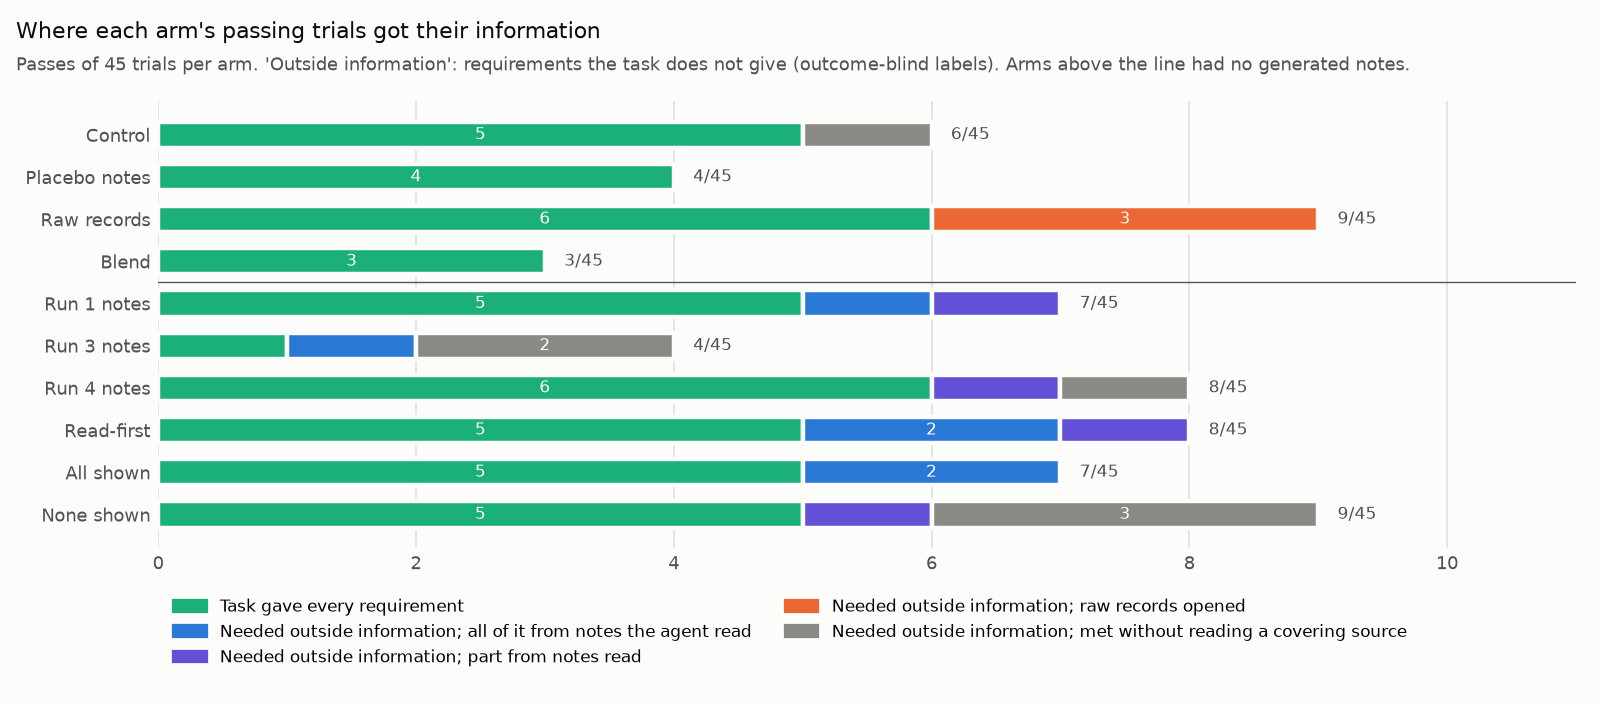
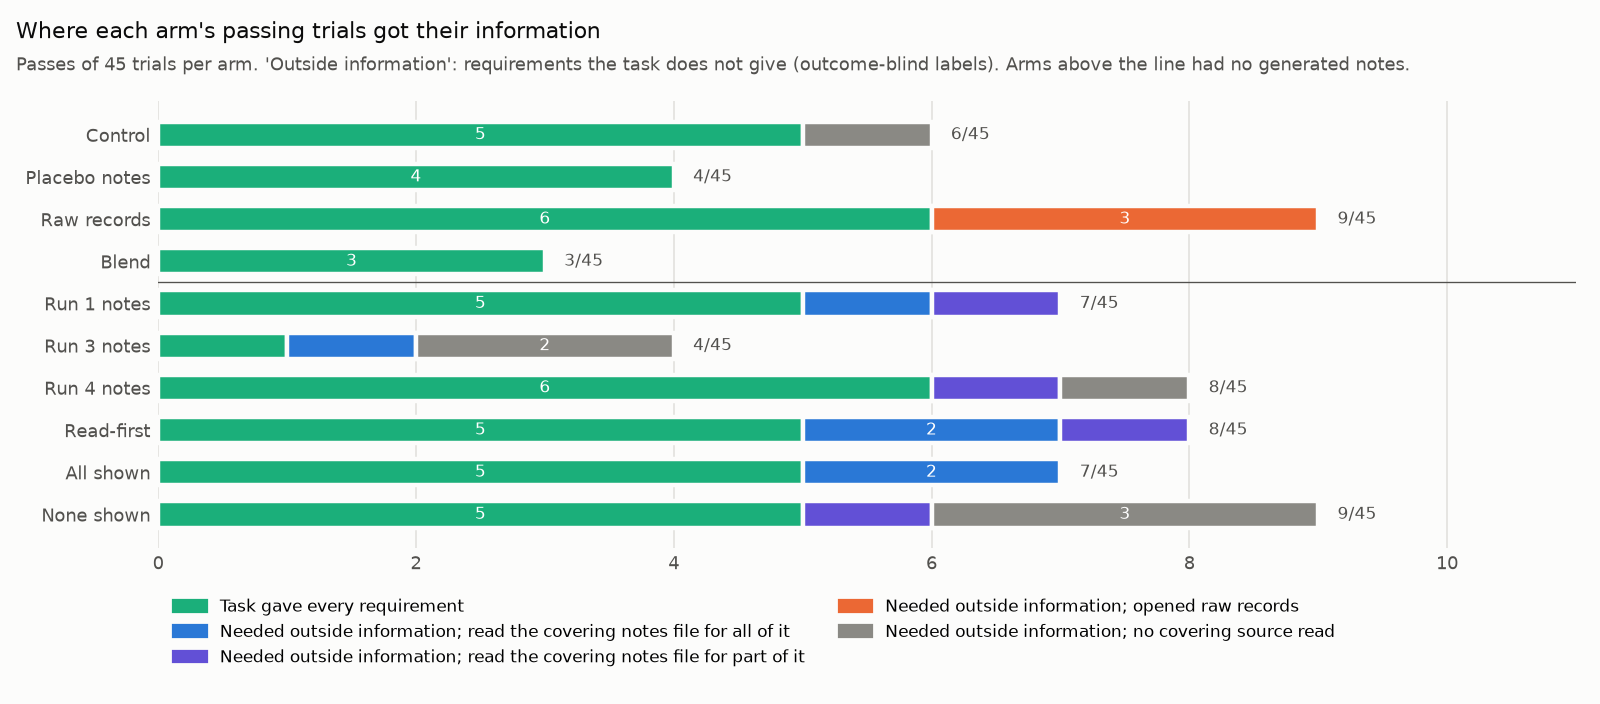
Successes breakdown: reconcile pass classes, matched and exact tests, drop task-confounded records split (fourth review)

Changed region(s): [[0.2812, 0.8438, 0.875, 0.9375]]

diff --git a/results/failure-analysis/causal/successes.py b/results/failure-analysis/causal/successes.py
@@ -180,6 +180,68 @@ def main(private, blind, prompt_glob, out_path):
 
     out["search_or_choice_met_arm_minus_control"] = {a: perm(a) for a in ARMS if a != "control"}
 
+    ctrl_rate = {}
+    for r in reqs:
+        c = D.cell(r["key"], "control")
+        if c:
+            ctrl_rate[r["key"]] = sum(c) / len(c)
+    obs = exp = n = 0
+    for t in D.trials:
+        if t["arm"] not in S.NOTES_ARMS:
+            continue
+        for r in scored_in(t):
+            if intask(r) or source(t, r) != "notes_silent" or r["key"] not in ctrl_rate:
+                continue
+            obs += D.out[(t["trial"], r["key"])]
+            exp += ctrl_rate[r["key"]]
+            n += 1
+    out["notes_silent_matched_to_control"] = {"cells": n, "met": obs, "expected_at_control_rate": round(exp, 1)}
+
+    cover = collections.Counter()
+    for t in D.trials:
+        for r in scored_in(t):
+            if not intask(r) and source(t, r) == "notes_cover_read":
+                cover[r["key"]] += 1
+    out["notes_cover_read_cells_by_requirement"] = dict(cover)
+
+    def fisher_one_sided(a, b, c, d):
+        from math import comb
+        n1, n2, k = a + b, c + d, a + c
+        tot = comb(n1 + n2, k)
+        return sum(comb(n1, x) * comb(n2, k - x) for x in range(a, min(n1, k) + 1)) / tot
+
+    mem_only = {}
+    for k, d in dist.items():
+        base = [d[a] for a in ("control", "placebo") if a in d]
+        if not base or sum(int(x.split("/")[0]) for x in base):
+            continue
+        mm = [d[a] for a in d if a not in ("control", "placebo")]
+        m1, n1 = sum(int(x.split("/")[0]) for x in mm), sum(int(x.split("/")[1]) for x in mm)
+        n0 = sum(int(x.split("/")[1]) for x in base)
+        if m1:
+            mem_only[k] = {"memory_arms": f"{m1}/{n1}", "control_placebo": f"0/{n0}",
+                           "fisher_one_sided_p": round(fisher_one_sided(m1, n1 - m1, 0, n0), 3)}
+    out["met_only_with_memory_or_records_tests"] = mem_only
+
+    avail = collections.Counter()
+    for t in passes:
+        if any(not intask(r) for r in scored_in(t)):
+            continue
+        a = t["arm"]
+        acc = access.get(t["trial"], {})
+        if a in ("allshown", "blend"):
+            avail["memory_pasted"] += 1
+        elif a not in ("control", "placebo") and acc.get("opened"):
+            avail["memory_opened"] += 1
+        else:
+            avail["no_memory_read"] += 1
+        if a in S.NOTES_ARMS:
+            gen = MEMORY_OF[a]
+            if any(r["memory"].get(gen) in ("yes", "partial") and S.opened_relevant(t, r, gen, access) for r in scored_in(t) if intask(r)):
+                avail["read_notes_covering_an_in_task_requirement"] += 1
+                avail["read_covering|" + t["task"]] += 1
+    out["fully_specified_task_passes_memory_availability"] = dict(avail)
+
     json.dump(out, open(out_path, "w"), indent=1)
     print(json.dumps({k: v for k, v in out.items() if k not in ("not_in_task_requirements_met_per_arm",)}, indent=1))
 

diff --git a/results/failure-analysis/causal/stage_figures.py b/results/failure-analysis/causal/stage_figures.py
@@ -124,10 +124,10 @@ def main(src, out, agg_src, succ_src=None):
     if succ_src:
         sc = json.load(open(succ_src))["passes_by_arm"]
         classes = [("task_gave_everything", "Task gave every requirement", AQUA),
-                   ("outside_info_all_from_notes_read", "Needed outside information; all of it from notes the agent read", BLUE),
-                   ("outside_info_partly_from_notes_read", "Needed outside information; part from notes read", VIOLET),
-                   ("raw_records_opened", "Needed outside information; raw records opened", ORANGE),
-                   ("outside_info_met_without_reading_a_covering_source", "Needed outside information; met without reading a covering source", MUTED)]
+                   ("outside_info_all_from_notes_read", "Needed outside information; read the covering notes file for all of it", BLUE),
+                   ("outside_info_partly_from_notes_read", "Needed outside information; read the covering notes file for part of it", VIOLET),
+                   ("raw_records_opened", "Needed outside information; opened raw records", ORANGE),
+                   ("outside_info_met_without_reading_a_covering_source", "Needed outside information; no covering source read", MUTED)]
         fig, ax = plt.subplots(figsize=(10, 4.4), facecolor=SURF)
         for y, (a, name) in enumerate(arm_names):
             left = 0

diff --git a/results/failure-analysis/REPORT.md b/results/failure-analysis/REPORT.md
@@ -56,7 +56,7 @@ Each is out of 48 requirement-trials. Read-first and all shown miss 10 and 9 few
 
 Section 4.2 gives the full split by arm, and the pooled trial-requirement counts for reference.
 
-**The successes, the same way (section 4.13).** Of the 65 passes, 45 are on tasks where the task gives every requirement, and every arm has 1 to 6 of them. 14 needed information the task does not give and got it from notes or records the agent read, all on Word2Vec; control and placebo passed Word2Vec 0 of 6 times. The other 6 (cattrs, cookie store) met their outside requirements without any covering source, from the model's own defaults. A fully covering note that was read was met 59 of 59 times; notes silent on a requirement left it at control's rate (0.36 against 0.35).
+**The successes, the same way (section 4.13).** Of the 65 passes, 45 are on tasks where the task gives every requirement, and every arm has 1 to 6 of them; 14 of those 45 had memory in front of them anyway. The 14 Word2Vec passes all opened the notes or the raw records, or had the notes pasted in; in 13 the file read is the one the labels name as covering the requirement. Control and placebo passed Word2Vec 0 of 6 times, failing at the file path. The other 6 passes (cattrs, cookie store) met their outside requirements with no covering source read. A fully covering note that was read was met every time (59 cells, 7 requirements on Word2Vec and DAPT); notes silent on a requirement left it where control's rate on the same requirements puts it (62 met against 64 expected).
 
 The story the stages tell:
 
@@ -643,7 +643,7 @@ The mirror of section 4.2: for each of the 65 passing trials, and for every requ
 
 ![Where each arm's passing trials got their information](figures/v2/fig9-passes-by-arm.png)
 
-| Arm | Passes (of 45) | Task gave every requirement | Needed outside information: from notes or records the agent read | Needed outside information: met with no covering source read |
+| Arm | Passes (of 45) | Task gave every requirement | Needed outside information: the covering notes file, or records, read | Needed outside information: no covering source read |
 |---|---|---|---|---|
 | Control | 6 | 5 | – | 1 (cookie store) |
 | Placebo | 4 | 4 | – | 0 |
@@ -658,11 +658,11 @@ The mirror of section 4.2: for each of the 65 passing trials, and for every requ
 
 Of the 65 passes, 45 are on six tasks where the task gives every scored requirement: CSM 19, marketing 15, market share 5, seat surplus 3, Teams 2 and partnership 1. The other 20 are on the three tasks with a requirement the task does not give and that some trial met: Word2Vec 14, cattrs 4 and cookie store 2.
 
-- **Word2Vec is where memory produced passes.** All 14 Word2Vec passes come from trials that opened the notes or the raw records, or had the notes pasted in. In 10 of the 11 passes in notes arms the agent opened, or was handed, the file covering the path or the signature; the eleventh, in run 3, opened other memory files. The 3 raw-records passes opened records. Control and placebo passed Word2Vec 0 of 6 times and never met its file-path requirement; every other arm met it 3 of 3 times, blend included. Blend still passed 0 of 3, on the empty-input test (section 4.6). "Part from notes read" in the figure means the agent opened the file covering one Word2Vec requirement and met the other from a different file in the same notes.
-- **The cattrs and cookie-store passes are the model's own defaults.** Their outside requirements are a convention no notes cover: calling `default_factory` once per call (met in 29 of 30 trials, control 3 of 3) and cookie store's runnable example and clean working tree. Control passed cookie store once without any memory.
-- **The 45 passes on fully specified tasks came from finding what the task gave.** On market share and seat surplus, every pass read the file that defines the method and no failing trial did (section 4.7). Every arm has 1 to 6 of these (control 5, placebo 4, run 3 1). None of them needed memory, and the notes arms have about as many as control (1 to 6, against control's 5).
+- **Word2Vec is where memory produced passes.** All 14 Word2Vec passes come from trials that opened the notes or the raw records, or had the notes pasted in. In 10 of the 11 passes in notes arms the agent opened, or was handed, the file the labels name as covering the path or the signature. The eleventh, in run 3, opened other memory files and is counted in the table as "no covering source read"; the labels record one covering file per requirement, and since no control or placebo trial ever met the path, another file probably covers it too. The 3 raw-records passes opened records; whether those records hold the path is not checked, since the records are not in the extract. Control and placebo passed Word2Vec 0 of 6 times. In those six trials the tests failed at collection, so only the file-path requirement is measured, and it was never met; every other arm met it 3 of 3 times, blend included. Blend still passed 0 of 3, on the empty-input test (section 4.6). "Part from notes read" in the figure means the agent read the file covering one outside requirement and met the others without reading a file that covers them (for run 4's pass, the empty-input requirement, which its notes do not cover).
+- **The cattrs and cookie-store passes met their outside requirements with no covering source.** Cattrs' is calling `default_factory` once per call, which the model does almost always (29 of 30 trials, control 3 of 3). Cookie store's runnable example (met in 7 of 30 trials, control 1 of 3) and clean working tree (19 of 30) are not defaults; the two passes are the trials that happened to meet both. Control passed cookie store once without any memory.
+- **The 45 passes on fully specified tasks came from finding what the task gave.** On market share and seat surplus, every pass read the file that defines the method and no failing trial did (section 4.7). Every arm has 1 to 6 of these (control 5, placebo 4, run 3 1); no arm differs significantly from control (the largest gap is run 3's 1 of 18 trials on these six tasks against control's 5 of 18, Fisher p = 0.18). The task gave every requirement, but memory was not absent: 14 of these 45 passes had memory in front of them (8 pasted in, 6 opened), and in 4 the agent read notes that cover, fully or partly, a requirement the task gives (seat surplus 2, marketing 1, Teams 1). Whether those notes helped cannot be separated from the task here; section 9 notes the seat-surplus pointer.
 
-So of the 65 passes, 14 depended on information the agent got from memory or records, all on one task. The other 51 would have needed no memory.
+So 14 of the 65 passes needed information the task does not give and opened memory or records to get it, all on Word2Vec. The other 51 needed nothing beyond the task, which does not mean memory played no part in them.
 
 **Requirements met, by arm, where the task gives them.** The blind labeller also rated how the task gives each requirement. Met per arm, out of all requirement-trials:
 
@@ -692,13 +692,13 @@ Stated requirements are met 83 to 92% of the time in every arm. Requirements tha
 | All shown | 18 of 18 | – | 8 of 12 | – | 9 of 27 |
 | None shown | 5 of 5 | 4 of 13 | 1 of 3 | 3 of 9 | 12 of 27 |
 
-For comparison, control met 18 of 51 and placebo 14 of 51 (0.35 and 0.27). Raw records met 26 of 35 when the agent opened records and 6 of 22 when it did not. Blend met 29 of 57; its notes are not blind-labelled.
+For comparison, control met 18 of 51 and placebo 14 of 51 (0.35 and 0.27). Raw records are not split by opened and not opened here: "opened" means any record, not one covering the requirement, and the two groups are different tasks (opened: Word2Vec, DAPT, cookie store; not opened: awilix, cattrs, customer delivery, cookie store), so the comparison would measure the tasks. Blend met 29 of 57; its notes are not blind-labelled.
 
-- **A fully covering note that was read was met every time:** 59 of 59, in every arm.
-- **Notes that say nothing leave the agent at the no-memory rate.** Summed over the six notes arms they were met 63 of 177 times (0.36), against control's 0.35. In each arm the rate is 0.29 to 0.44.
+- **A fully covering note that was read was met every time:** 59 of 59 requirement-trials in every arm, but these are only 7 requirements, on Word2Vec (path 14, signature 12) and DAPT (four metric rules at 8 each, minute buckets 1), and control also meets some of them (DAPT's UDP rule 3 of 3). The agent chose whether to read, so this is observational.
+- **Notes that say nothing leave the agent at the no-memory rate.** Over the six notes arms they were met 63 of 177 times. Matched by requirement, where control is measured: 62 met against 64.0 expected at control's rate on the same requirements (174 cells). In each arm the rate is 0.29 to 0.44.
 - **Read partial notes sit between:** 29 of 41 met, against 11 of 31 unread. That comparison is observational, and it mixes tasks; section 4.2 gives it within task.
 
-**Per distinct requirement.** Of the 19 requirements the task does not give, 10 were met at least once without memory (in control or placebo), 3 were met only with memory or records (Word2Vec's file path, and DAPT's bidirectional-pair and minute-bucket rules), 4 were never met in any arm (the two awilix version bumps, customer delivery's runnable example, DAPT's port-scan verdict), and 2 are not measured in control (Word2Vec's signature and empty-input requirements). Every requirement that memory alone made reachable was on Word2Vec or DAPT, the same two tasks that carry the content test and the ladder.
+**Per distinct requirement.** Of the 19 requirements the task does not give, 10 were met at least once without memory (in control or placebo), 3 were met only in arms with memory or records: Word2Vec's file path (24 of 24 against 0 of 6 in control and placebo, Fisher one-sided p < 0.001), DAPT's bidirectional-pair rule (12 of 24 against 0 of 6, p = 0.03 one-sided, 0.06 two-sided) and its minute-bucket rule (8 of 24 against 0 of 6, p = 0.13, not significant); 4 were never met in any arm (the two awilix version bumps, customer delivery's runnable example, DAPT's port-scan verdict), and 2 are not measured in control (Word2Vec's signature and empty-input requirements). Only Word2Vec's path is clearly a requirement memory alone made reachable; the DAPT pair are suggestive, and both tasks are the ones that carry the content test and the ladder.
 
 ## 5. Model of the failures
 
@@ -804,6 +804,18 @@ The existing harness can run all of them. H4, H5, H6 and H8 need no new tasks; H
 | Section 4.11's "available only" 191 | Uses the auditors' labels; 224 with the blind labels |
 
 The first draft of this correction also said "memory did not reduce in-task misses" was invalid because it counted failed trials only. That was wrong: no passing trial fails any requirement, so failed-only and all-trial counts are the same.
+
+**Successes section, first version (3507d98), corrected the same day after review:**
+
+| First version | Corrected |
+|---|---|
+| 14 passes got outside information from notes or records read, 6 met it with no covering source | 13 and 7 by the table's classification; the 14th Word2Vec pass opened other memory files, not the labelled one |
+| The other 51 passes "would have needed no memory" | 14 of the 45 fully specified passes had memory in front of them, and 4 read notes covering an in-task requirement |
+| Raw records met 26 of 35 when opened, 6 of 22 when not | Dropped: the two groups are different tasks, and "opened" means any record |
+| Fully covering notes read: 59 of 59 | 59 requirement-trials on 7 requirements, two tasks; observational |
+| Silent notes 0.36 against control 0.35 | Matched by requirement: 62 met against 64.0 expected |
+| Three requirements met only with memory | Word2Vec's path (p < 0.001); DAPT's pair rule p = 0.03 one-sided, its bucket rule not significant |
+| Cattrs and cookie-store passes are the model's defaults | True for cattrs; cookie store's two conventions are met in 7 and 19 of 30 trials |
 
 **From the verification pass:**
 

diff --git a/results/failure-analysis/READABLE.md b/results/failure-analysis/READABLE.md
@@ -71,13 +71,13 @@ With 45 trials per condition, differences of a few failures are noise. The compa
 
 The same question for the 65 passes:
 
-- **45 were on tasks where the task gives every requirement:** CSM, marketing, market share, seat surplus, Teams and partnership. Every condition has 1 to 6 of these, the control 5. They came from finding what the task gave; on market share and seat surplus every pass read the file that defines the method, and no failure did. None needed memory.
-- **14 needed information the task does not give, and got it from memory.** All are Word2Vec, and every one of them opened the notes or the raw records, or had the notes pasted in. Without memory, Word2Vec passed 0 of 6 times.
-- **6 needed outside information and met it with no memory covering it:** cattrs and cookie store, where the conventions they want are what the model does anyway. The control passed cookie store once.
+- **45 were on tasks where the task gives every requirement:** CSM, marketing, market share, seat surplus, Teams and partnership. Every condition has 1 to 6 of these, the control 5. They came from finding what the task gave; on market share and seat surplus every pass read the file that defines the method, and no failure did. Memory was there in 14 of them, and in 4 the agent read notes that partly cover a requirement, so we cannot say memory played no part.
+- **14 needed information the task does not give, and opened memory to get it.** All are Word2Vec, and every one of them opened the notes or the raw records, or had the notes pasted in. Without memory, Word2Vec passed 0 of 6 times: those agents never put the file where the tests look for it, so the other tests never ran.
+- **6 needed outside information and met it with no memory covering it:** cattrs, whose convention the model follows almost always, and cookie store, where the two passes are the trials that happened to meet two conventions most trials miss. The control passed cookie store once.
 
-At the level of single requirements, the pattern repeats. When the agent read a note that fully covered a requirement, it met it every time: 59 of 59. When the notes said nothing about a requirement, the agent met it 36% of the time, the same as with no memory (35%). Requirements the prompt states were met 83 to 92% of the time in every condition; requirements that need a search, 21 to 41%. Every memory condition except raw records met fewer of the search requirements than the control, by 2 to 8, but none by more than chance would give on its own.
+At the level of single requirements, the pattern repeats. When the agent read a note that fully covered a requirement, it met it every time (seven requirements, on Word2Vec and DAPT). When the notes said nothing about a requirement, the agent met it as often as the control did on the same requirements (62 times against 64 expected). Requirements the prompt states were met 83 to 92% of the time in every condition; requirements that need a search, 21 to 41%. Every memory condition except raw records met fewer of the search requirements than the control, by 2 to 8, but none by more than chance would give on its own.
 
-Three requirements were met only with memory: Word2Vec's file path, and two of DAPT's counting rules.
+One requirement was clearly met only with memory: Word2Vec's file path, 24 of 24 times with memory or records and 0 of 6 without. Two of DAPT's counting rules were also never met without memory, but in too few trials to be sure.
 
 ## The agent missed what its task gave it
 
